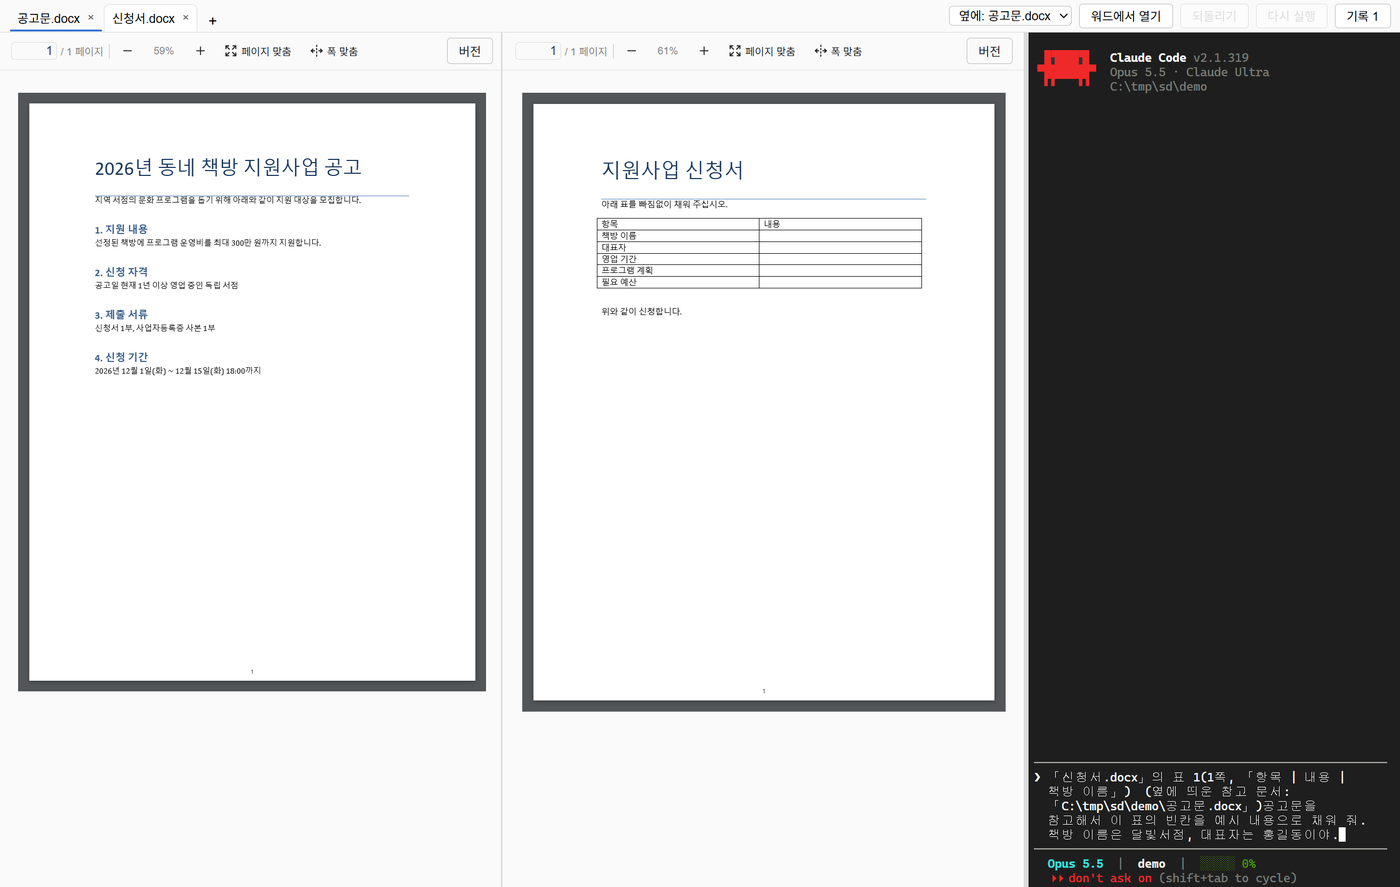
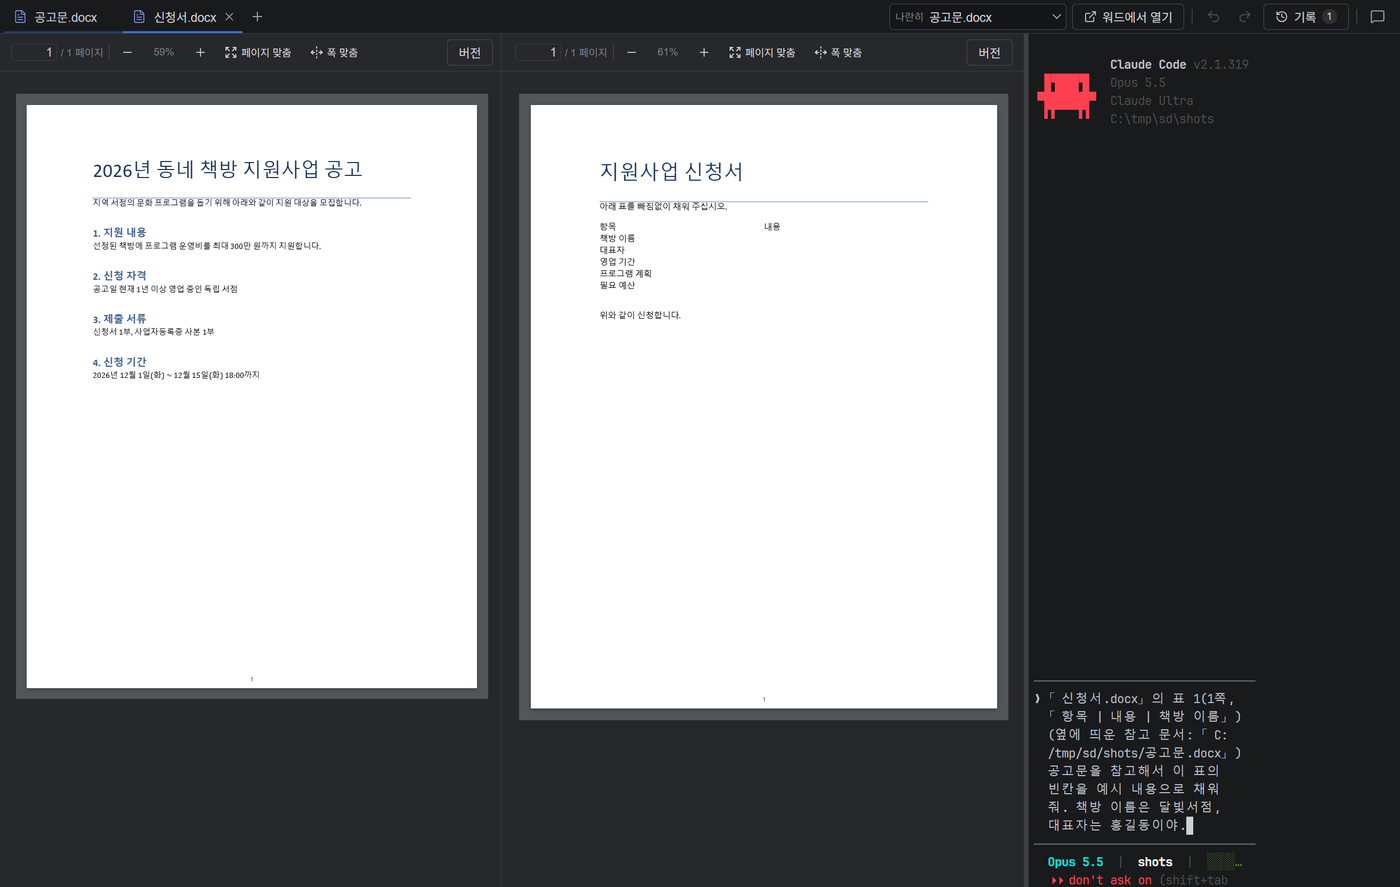
설명서: 새 화면 스크린샷, 나란히·되돌리기 단추 문구, 피드백 보내기

diff --git a/docs/install.md b/docs/install.md
@@ -28,9 +28,10 @@ pdf 는 보기만 한다.
 - 시작 메뉴에서 띄운 뒤 「문서 열기」로 hwpx·docx·pdf 를 연다. 탭 하나에 문서 하나와 Claude 하나가 붙는다.
 - Claude 는 문서가 있는 폴더에서 뜬다. 처음 여는 폴더면 Claude 가 「이 폴더를 믿겠느냐」고 묻는다. 그 칸을 눌러 답한다.
 - 문서에서 문단·표를 누르면(Ctrl 로 여러 개) 아래 「Claude에게」로 그 범위를 입력칸에 넣을 수 있다. Enter 는 사람이 누른다.
-- Claude 가 고치면 바뀐 곳이 문서 위에 초록색으로 칠해진다. 상단 「되돌리기」(Ctrl+Z)·「다시 실행」(Ctrl+Y)·「기록」으로 판을 오간다.
+- Claude 가 고치면 바뀐 곳이 문서 위에 초록색으로 칠해진다. 상단 되돌리기(Ctrl+Z)·다시 실행(Ctrl+Y) 단추와 「기록」으로 판을 오간다.
   기록 창에서는 변경 하나만 골라 되돌릴 수도 있다.
-- 「나란히 보기」로 다른 탭 문서(공고문 등)를 왼쪽에 띄워 두고 지금 문서를 고칠 수 있다.
+- 상단 「나란히」에서 다른 탭 문서(공고문 등)를 골라 왼쪽에 띄워 두고 지금 문서를 고칠 수 있다.
+- 오른쪽 위 끝 말풍선 단추로 버그·제안을 보낼 수 있다. GitHub 계정은 필요 없다.
 
 ## 판 기록이 남는 곳
 

diff --git a/README.md b/README.md
@@ -21,6 +21,7 @@
 | **문서 서식은 그대로** | 글자만 바꾸고 글꼴·표 모양·쪽 설정은 건드리지 않는다. |
 | **나란히 보기** | 참고 문서를 왼쪽에 띄워 두고 고칠 문서를 고친다. Claude 는 참고 문서를 읽기만 한다. |
 | **스스로 새 버전** | 새 버전이 나오면 앱 안에 설치 단추가 뜬다. |
+| **앱 안에서 의견 보내기** | 말풍선 단추로 버그·제안을 바로 보낸다. 계정이 없어도 된다. |
 
 ## 받기
 
